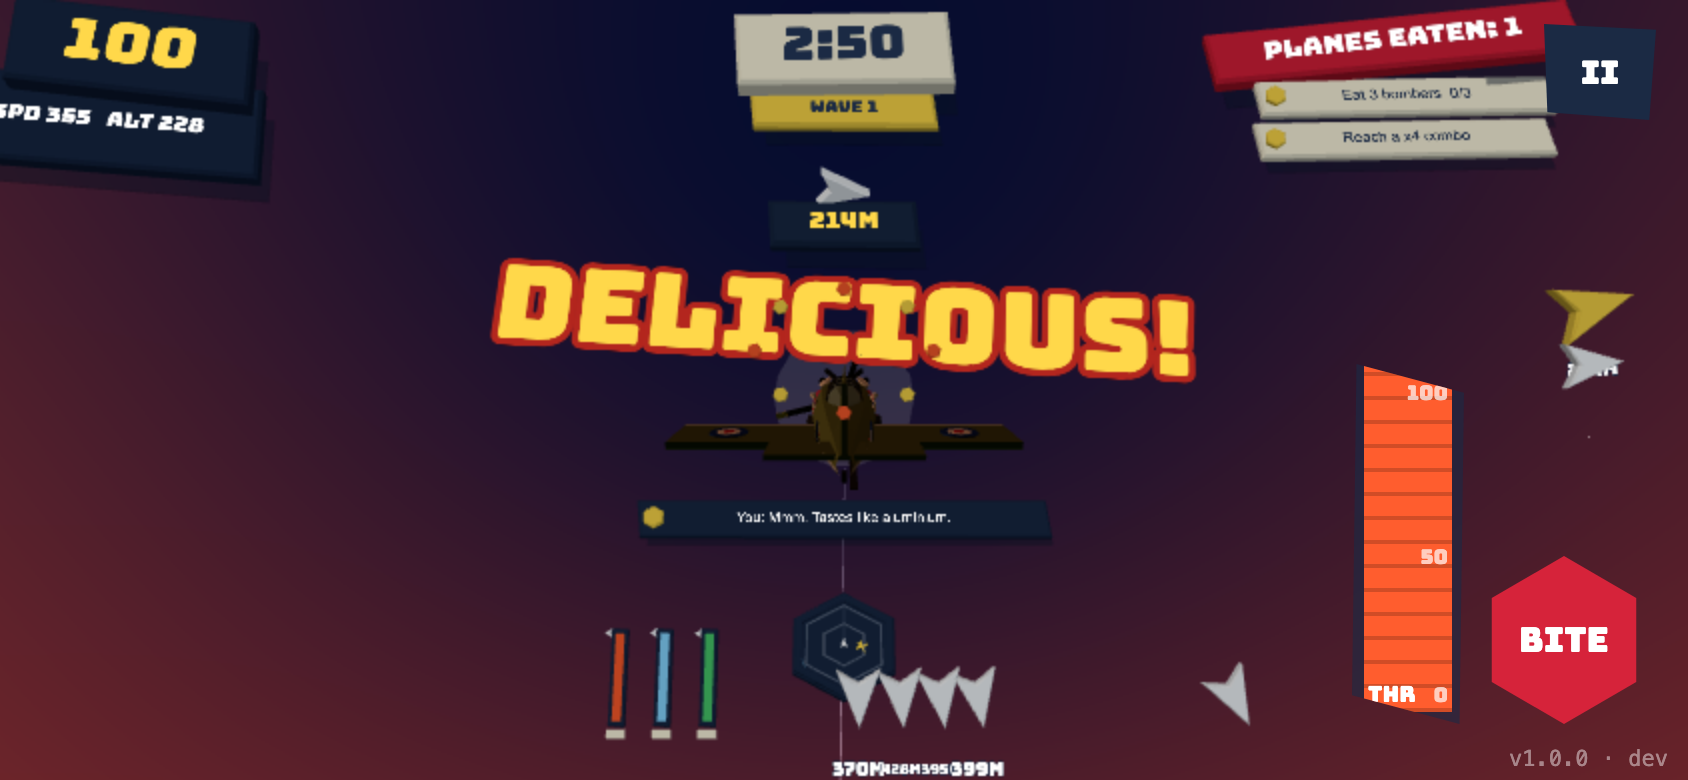
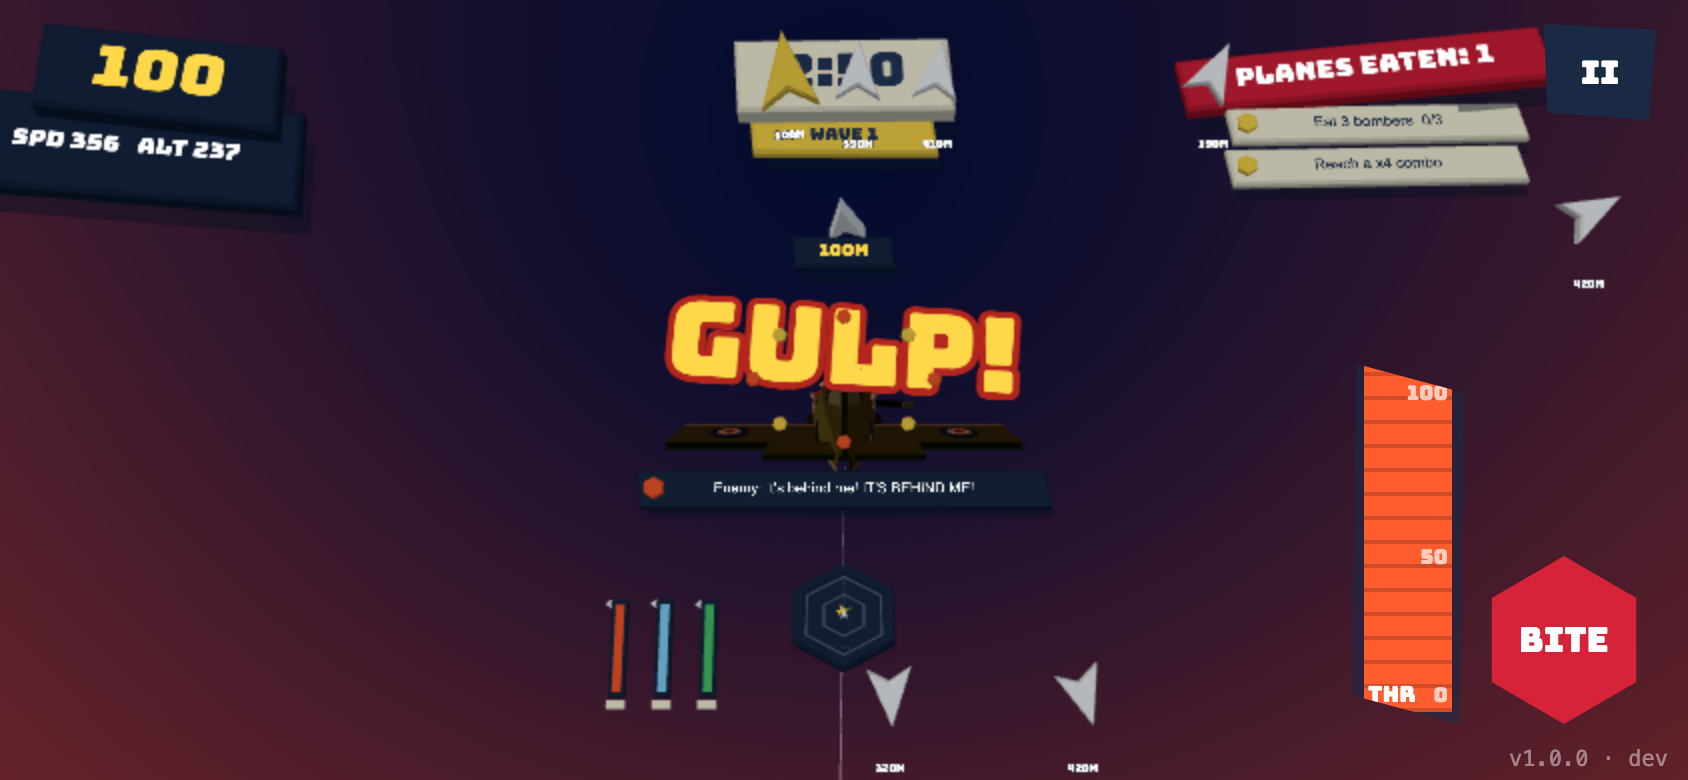
fix: quantized 5 Hz distance readouts, HUD lean stays inside the screen, prop disc invisible from behind, clouds fade when flown through

diff --git a/lib/ui/hud3d.ts b/lib/ui/hud3d.ts
@@ -57,6 +57,7 @@ export class Hud3D {
   private subtitle: Plate; private subtitleWho: THREE.Mesh; private subtitleSlide = new Spring(0);
   private caption: Plate; private toast: Plate; private muted: Plate;
   private lastBoss = 0;
+  private distClock = 0; private distTick = false;
 
   constructor() {
     resolveFont();
@@ -160,7 +161,8 @@ export class Hud3D {
   /** Position in CSS px from an anchor (x right, y down), returns world coords (y up). */
   private at(anchor: Anchor, x: number, y: number, out: THREE.Object3D) {
     const s = this.ui;
-    const L = -this.w / 2 + this.safe.l, R = this.w / 2 - this.safe.r, T = this.h / 2 - this.safe.t, B = -this.h / 2 + this.safe.b;
+    const inset = 14; // covers the worst-case lean/shake excursion so corner plates never leave the screen
+    const L = -this.w / 2 + this.safe.l + inset, R = this.w / 2 - this.safe.r - inset, T = this.h / 2 - this.safe.t - inset, B = -this.h / 2 + this.safe.b + inset;
     const px = anchor.endsWith("l") ? L + x * s : anchor.endsWith("r") ? R - x * s : (L + R) / 2 + x * s;
     const py = anchor.startsWith("t") ? T - y * s : B + y * s;
     out.position.set(px + this.shake.x, py + this.shake.y, out.position.z);
@@ -175,11 +177,14 @@ export class Hud3D {
   private lean = new Spring(0, 0, 60, 10); private lag = new Spring(0, 0, 90, 12);
   update(hud: Hud, o: Options, dt: number) {
     this.t += dt;
+    // distance readouts update at 5 Hz in ~5/10 m steps so they read as instruments, not noise
+    this.distClock += dt; this.distTick = this.distClock >= 0.2; if (this.distTick) this.distClock = 0;
+    const qDist = (d: number) => (d < 100 ? Math.round(d / 5) * 5 : Math.round(d / 10) * 10);
     // cockpit inertia: the whole HUD leans with bank and sags under g
     const motion = o.reducedMotion ? 0 : 1;
-    this.lean.target = -hud.bank * 0.05 * motion; this.lag.target = -hud.gForce * 10 * motion;
+    this.lean.target = -hud.bank * 0.018 * motion; this.lag.target = -hud.gForce * 6 * motion;
     this.root.rotation.z = this.lean.update(dt); this.root.position.y = this.lag.update(dt);
-    this.root.rotation.y = -hud.bank * 0.03 * motion;
+    this.root.rotation.y = -hud.bank * 0.02 * motion;
     const s = this.ui, bob = (i: number) => Math.sin(this.t * 1.3 + i) * 0.6 * (o.reducedMotion ? 0 : 1);
     const mm = Math.floor(hud.timeLeft / 60), ss = String(hud.timeLeft % 60).padStart(2, "0");
 
@@ -198,7 +203,7 @@ export class Hud3D {
     this.at("tc", 0, 74, this.wave); this.wave.setText(`${hud.frenzy > 0 ? `FRENZY ${Math.ceil(hud.frenzy)}s` : `WAVE ${hud.wave}`}${hud.weather === "rain" ? " ☂" : ""}`); this.wave.tick(dt); this.wave.scale.multiplyScalar(s); this.wave.body.material = mat(hud.frenzy > 0 ? "orange" : "yellow");
     this.at("tc", 0, 122, this.compass); this.compass.scale.multiplyScalar(s);
     this.compassArrow.rotation.set(-hud.lockPitch * 0.9, 0, -hud.compassAngle); this.compassArrow.material = mat(hud.compassNear ? "orange" : "white");
-    this.lockChip.setText(hud.lockDist !== null ? `${hud.lockDist}m` : ""); this.lockChip.tick(dt);
+    if (this.distTick || !this.lockChip.text) this.lockChip.setText(hud.lockDist !== null ? `${qDist(hud.lockDist)}m` : ""); this.lockChip.tick(dt);
 
     // top-right: eaten + objectives + boss
     this.at("tr", this.coarse ? 200 : 130, 32, this.eaten); this.eaten.setText(`PLANES EATEN: ${hud.eaten}`); this.eaten.tick(dt); this.eaten.scale.multiplyScalar(s); this.eaten.rotation.z = 0.03;
@@ -250,7 +255,7 @@ export class Hud3D {
       const size = (tg.kind === "bomber" ? 34 : 26) * s * ls;
       m.corners.forEach((c, ci) => { c.visible = tg.onScreen; c.material = mat(col); const sx = ci === 0 || ci === 3 ? -1 : 1, sy = ci < 2 ? 1 : -1; c.position.set(sx * size, sy * size, 0); c.scale.setScalar(s * (tg.locked ? 1.2 : 1)); });
       m.dart.visible = !tg.onScreen; m.dart.material = mat(col); m.dart.rotation.z = -tg.angle - Math.PI / 2; m.dart.scale.setScalar(s * (tg.locked ? 1.3 : 1));
-      m.label.set(`${tg.dist}m${tg.onScreen && Math.abs(tg.dAlt) > 15 ? (tg.dAlt > 0 ? ` ▲${tg.dAlt}` : ` ▼${-tg.dAlt}`) : ""}`); m.label.position.y = -(size + 16); m.label.scale.multiplyScalar(s);
+      if (this.distTick || !m.label.text) m.label.set(`${qDist(tg.dist)}m${tg.onScreen && Math.abs(tg.dAlt) > 15 ? (tg.dAlt > 0 ? ` ▲${Math.round(tg.dAlt / 10) * 10}` : ` ▼${Math.round(-tg.dAlt / 10) * 10}`) : ""}`); m.label.position.y = -(size + 16); m.label.scale.multiplyScalar(s);
       m.group.rotation.z = tg.locked ? Math.sin(this.t * 5) * 0.06 : 0;
     });
     for (let i = hud.targets.length; i < this.markers.length; i++) this.markers[i].group.visible = false;

diff --git a/lib/terrain.ts b/lib/terrain.ts
@@ -42,7 +42,7 @@ export function isOnRunway(x: number, z: number) {
   return Math.abs(x) < RUNWAY.halfWidth && z > RUNWAY.zMin && z < RUNWAY.zMax;
 }
 
-export type World = { water: THREE.Mesh; update: (t: number) => void };
+export type World = { water: THREE.Mesh; clouds: { mesh: THREE.InstancedMesh; centers: THREE.Vector3[] }; update: (t: number) => void };
 
 export type Detail = { terrainSeg: number; trees: number; clouds: number; waterSeg: number };
 export const DETAIL: Record<"high" | "medium" | "low", Detail> = {
@@ -88,12 +88,13 @@ export function buildWorld(scene: THREE.Scene, detail: Detail = DETAIL.high): Wo
   const water = buildWater(scene, detail.waterSeg);
   buildAirfield(scene);
   buildTrees(scene, detail.trees);
-  buildClouds(scene, detail.clouds);
+  const clouds = buildClouds(scene, detail.clouds);
 
   const wpos = water.geometry.attributes.position as THREE.BufferAttribute;
   const base = wpos.array.slice() as Float32Array;
   return {
     water,
+    clouds,
     update(t) {
       for (let i = 0; i < wpos.count; i++) {
         const x = base[i * 3], z = base[i * 3 + 2];
@@ -198,7 +199,7 @@ function buildTrees(scene: THREE.Scene, max: number) {
   scene.add(trunks, leaves);
 }
 
-function buildClouds(scene: THREE.Scene, clouds: number) {
+function buildClouds(scene: THREE.Scene, clouds: number): { mesh: THREE.InstancedMesh; centers: THREE.Vector3[] } {
   const puff = new THREE.IcosahedronGeometry(1, 0);
   const count = clouds * 5;
   const inst = new THREE.InstancedMesh(puff, new THREE.MeshLambertMaterial({ color: 0xffffff, flatShading: true, transparent: true, opacity: 0.95 }), count);
@@ -206,8 +207,10 @@ function buildClouds(scene: THREE.Scene, clouds: number) {
   let seed = 777;
   const rnd = () => ((seed = (seed * 1664525 + 1013904223) >>> 0) / 4294967296);
   let i = 0;
+  const centers: THREE.Vector3[] = [];
   for (let c = 0; c < clouds; c++) {
     const cx = (rnd() - 0.5) * 2800, cy = 140 + rnd() * 140, cz = (rnd() - 0.5) * 2800;
+    centers.push(new THREE.Vector3(cx, cy, cz));
     for (let j = 0; j < 5; j++) {
       const sc = 7 + rnd() * 9;
       p.set(cx + (rnd() - 0.5) * 34, cy + (rnd() - 0.5) * 6, cz + (rnd() - 0.5) * 16);
@@ -216,4 +219,5 @@ function buildClouds(scene: THREE.Scene, clouds: number) {
   }
   inst.castShadow = true;
   scene.add(inst);
+  return { mesh: inst, centers };
 }

diff --git a/lib/engine.ts b/lib/engine.ts
@@ -1013,6 +1013,14 @@ export class Engine {
     const opts = store.get().options;
     this.input.update(realDt, opts);
     this.world.update(now / 1000);
+    // fade the cloud layer out when the camera is inside a puff so it never white-out the view
+    {
+      let nearest = Infinity;
+      for (const c of this.world.clouds.centers) { const d = c.distanceToSquared(this.camera.position); if (d < nearest) nearest = d; }
+      const m = this.world.clouds.mesh.material as THREE.MeshLambertMaterial;
+      const inside = THREE.MathUtils.smoothstep(Math.sqrt(nearest), 18, 55);
+      m.opacity = THREE.MathUtils.lerp(m.opacity, 0.15 + 0.8 * inside, 0.15);
+    }
     this.sky.follow(this.player.pos);
     const sock = this.scene.getObjectByName("sock");
     if (sock) sock.rotation.y = Math.atan2(this.wind.x, this.wind.z) + Math.sin(now / 700) * 0.25;
@@ -1095,7 +1103,7 @@ export class Engine {
       this.hud3d.setVisible(showHud);
       if (showHud) {
         const o = store.get().options;
-        const sh = this.shake * o.shake * (o.reducedMotion ? 0 : 1) * 4;
+        const sh = this.shake * o.shake * (o.reducedMotion ? 0 : 1) * 2;
         this.hud3d.setShake((Math.random() - 0.5) * sh, (Math.random() - 0.5) * sh);
         this.hud3d.update(store.get().hud, o, realDt);
         this.renderer.clearDepth();

diff --git a/lib/models.ts b/lib/models.ts
@@ -144,7 +144,7 @@ function airframe(g: THREE.Group, hull: Section[], top: number, belly: number, o
     blade.add(root, tip); blade.rotation.z = (i * Math.PI * 2) / 3; prop.add(blade);
   }
   prop.position.z = opts.propZ; g.add(prop);
-  const propDisc = new THREE.Mesh(new THREE.CircleGeometry(3.1, 18), new THREE.MeshBasicMaterial({ color: 0xbbbbbb, transparent: true, opacity: 0.18, side: THREE.DoubleSide, depthWrite: false }));
+  const propDisc = new THREE.Mesh(new THREE.CircleGeometry(2.6, 18), new THREE.MeshBasicMaterial({ color: 0xbbbbbb, transparent: true, opacity: 0.1, side: THREE.BackSide, depthWrite: false })); // back-side only: invisible from the chase camera
   propDisc.position.z = opts.propZ; propDisc.visible = false; g.add(propDisc);
 
   // exhaust stacks along the cowl sides
